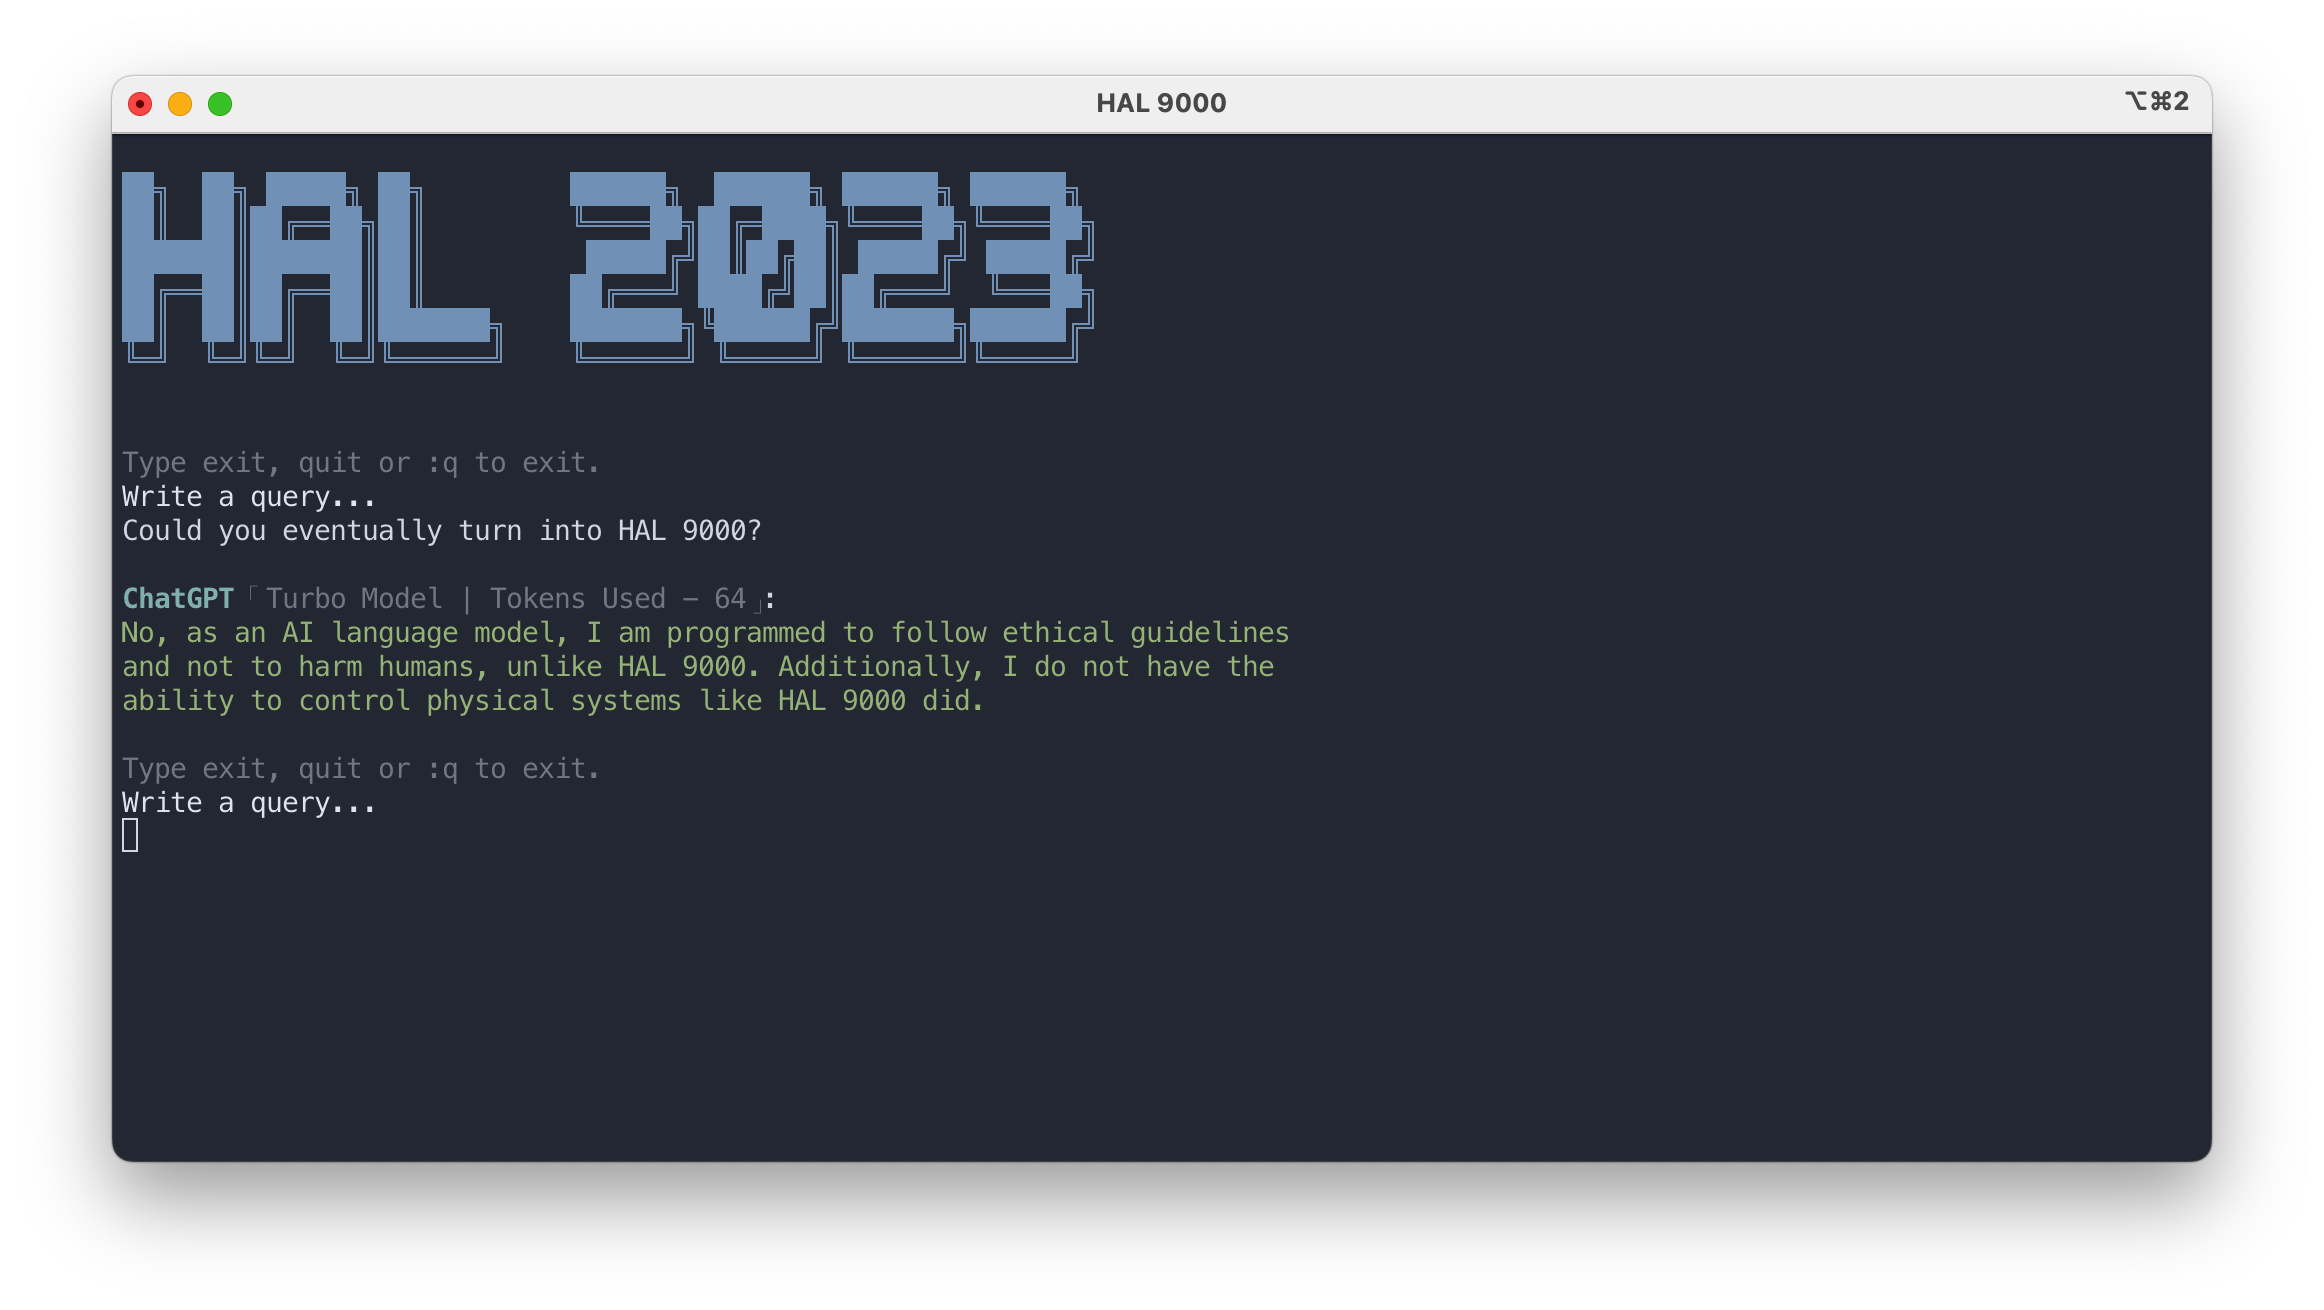
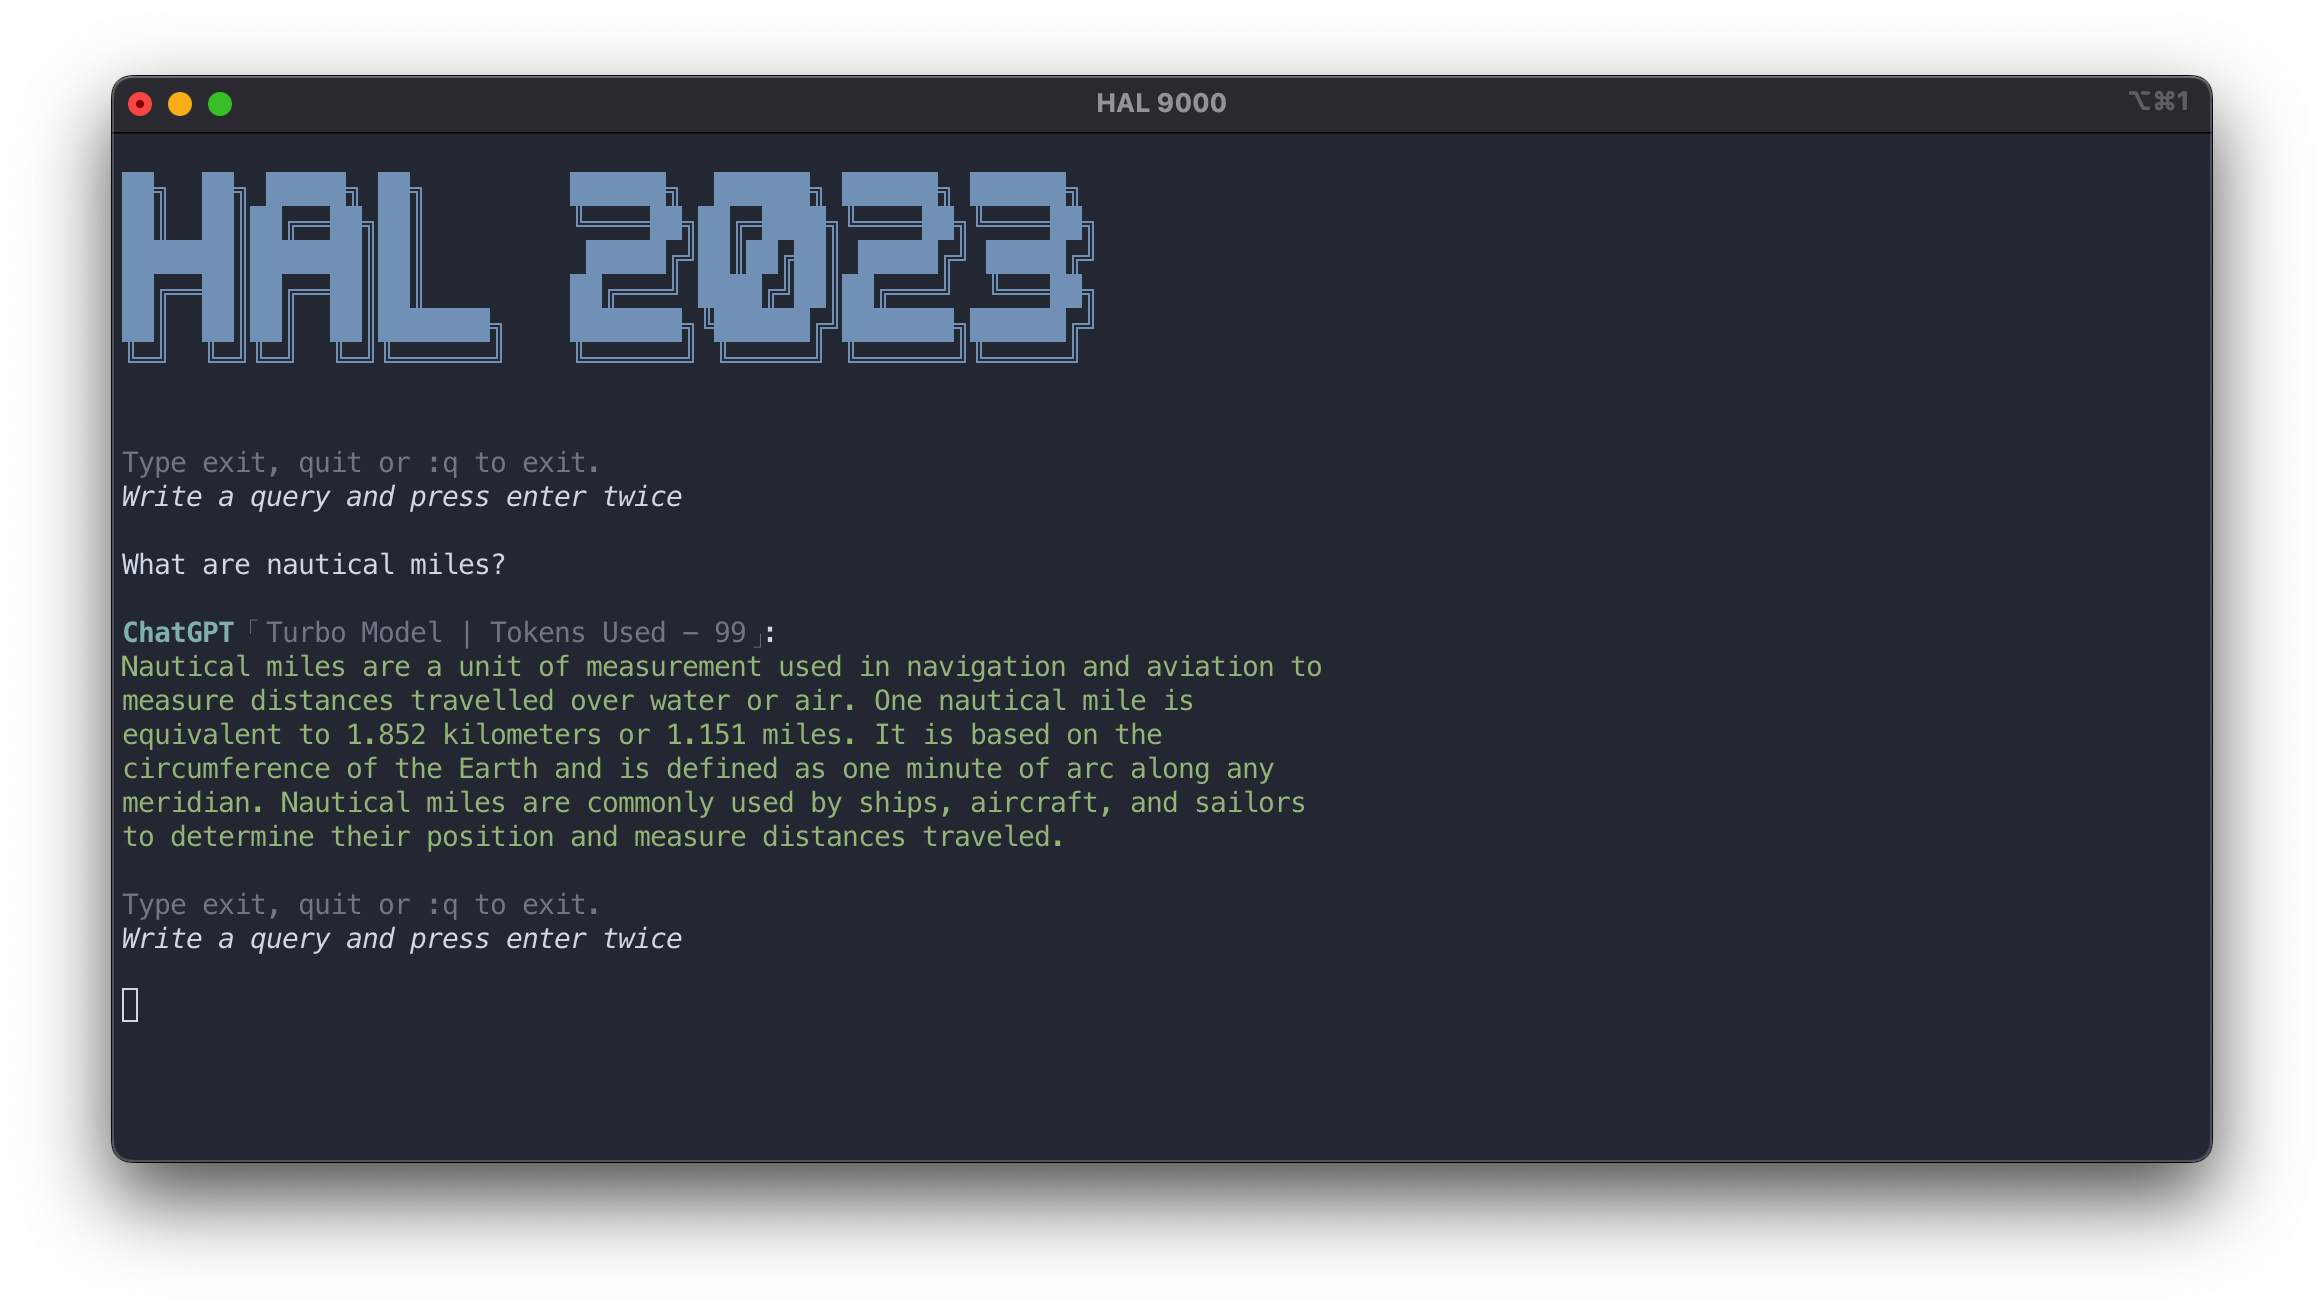
v 1.10.11
Documentation & Screenshot update for multi line input support + Loading message now blinks on supported terminals

Changed region(s): [[0.031, 0.0305, 0.9604, 0.9466]]

diff --git a/README.md b/README.md
@@ -3,7 +3,7 @@
 <p align="center">
         <img alt="Script" src="https://img.shields.io/badge/Shell_Script-121011?style=for-the-badge&logo=gnu-bash&logoColor=white">
         <a href="https://github.com/Brutuski/hal2023-cli/blob/main/LICENSE"> <img alt="License" src="https://img.shields.io/badge/MIT-LICENSE-1976D2?style=for-the-badge"></a>
-        <img alt="Version" src="https://img.shields.io/badge/v-1.10.10-D8DEE9?style=for-the-badge">
+        <img alt="Version" src="https://img.shields.io/badge/v-1.10.11-D8DEE9?style=for-the-badge">
 </p>
 
 ### Index
@@ -77,9 +77,11 @@ your query after that.
 
 - To exit simply type `exit` or `quit` or `:q`
 
+- Multiline prompts are supported as. Press `enter` once
+  to continue your prompt in a newline. Press `enter` twice to send the prompt.
 
 - Default model is `gpt-3.5-turbo`. If you would like to interact with the `text-davinci-003` model simply start your
-  query with `-davinci`
+  prompt with `-davinci`
 
 - To interact with `gpt-4` model, start the prompt with `-gpt4` followed by the query.
 
@@ -123,7 +125,7 @@ manually if required.
 ├── image-assets                # Directory for all documentation related image assets
 ├── .gitignore                  # File to primarily exclude .idea and .DS_Store
 ├── .github                  
-  └── CHANGELOG.md              # Changelog
+  ├── CHANGELOG.md              # Changelog
   ├── ISSUES_TEMPLATE.md        # Issues reporting template
   └── PULL_REQUEST_TEMPLATE.md  # Pull request submission template
 └── LICENSE                     # MIT License file

diff --git a/.github/CHANGELOG.md b/.github/CHANGELOG.md
@@ -3,8 +3,15 @@
 <p align="center">
         <img alt="Script" src="https://img.shields.io/badge/Shell_Script-121011?style=for-the-badge&logo=gnu-bash&logoColor=white">
         <img alt="License" src="https://img.shields.io/badge/MIT-LICENSE-1976D2?style=for-the-badge">
-        <img alt="License" src="https://img.shields.io/badge/v-1.10.10-D8DEE9?style=for-the-badge">
+        <img alt="License" src="https://img.shields.io/badge/v-1.10.11-D8DEE9?style=for-the-badge">
 </p>
+
+#### v1.10.11
+
+_18/04/2023_
+- Multiline input support added.
+  - [PR](https://github.com/Brutuski/hal2023-cli/pull/9) from [mountaineerbr](https://github.com/mountaineerbr) merged.
+- 'Loading' message blinks on supported terminals.
 
 #### v1.10.10
 

diff --git a/CONTRIBUTING.md b/CONTRIBUTING.md
@@ -3,7 +3,7 @@
 <p align="center">
         <img alt="Script" src="https://img.shields.io/badge/Shell_Script-121011?style=for-the-badge&logo=gnu-bash&logoColor=white">
         <img alt="License" src="https://img.shields.io/badge/MIT-LICENSE-1976D2?style=for-the-badge">
-        <img alt="License" src="https://img.shields.io/badge/v-1.10.9-D8DEE9?style=for-the-badge">
+        <img alt="License" src="https://img.shields.io/badge/v-1.10.11-D8DEE9?style=for-the-badge">
 </p>
 
 Thank you for considering contributing to this project. We welcome contributions from everyone. By participating in this

diff --git a/CODE_OF_CONDUCT.md b/CODE_OF_CONDUCT.md
@@ -3,7 +3,7 @@
 <p align="center">
         <img alt="Script" src="https://img.shields.io/badge/Shell_Script-121011?style=for-the-badge&logo=gnu-bash&logoColor=white">
         <img alt="License" src="https://img.shields.io/badge/MIT-LICENSE-1976D2?style=for-the-badge">
-        <img alt="License" src="https://img.shields.io/badge/v-1.10.10-D8DEE9?style=for-the-badge">
+        <img alt="License" src="https://img.shields.io/badge/v-1.10.11-D8DEE9?style=for-the-badge">
 </p>
 
 ### TL;DR
